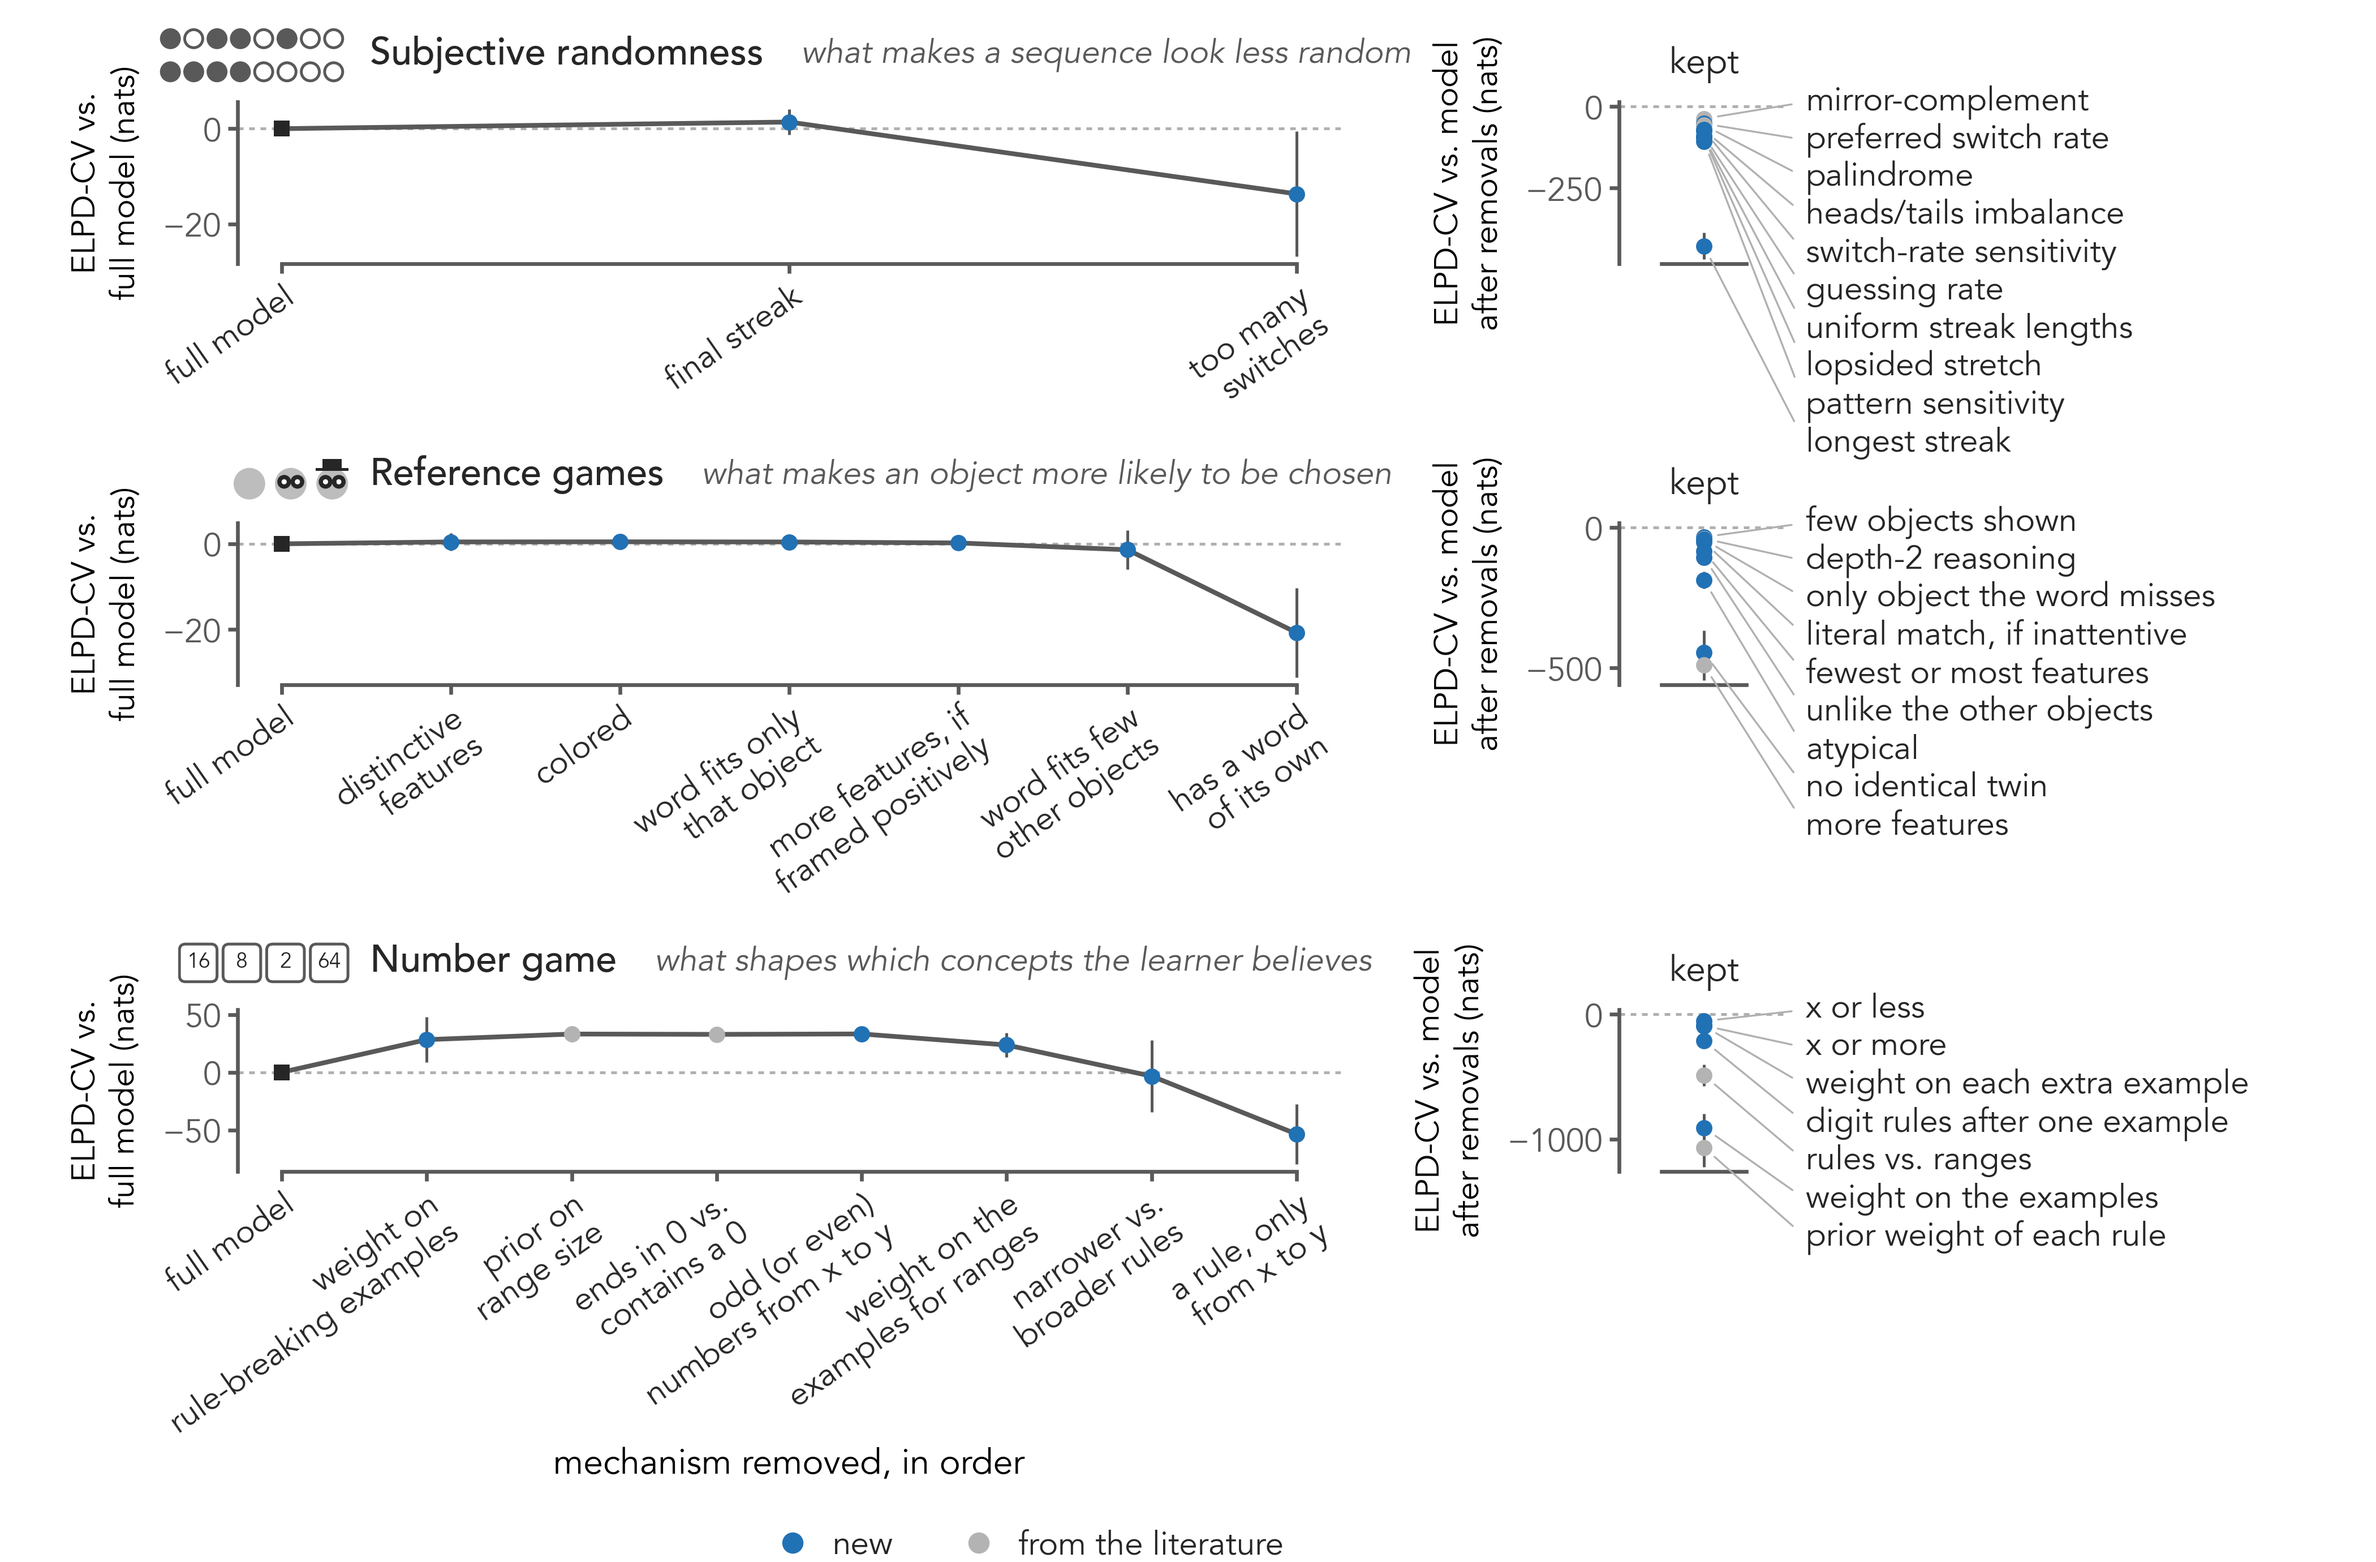
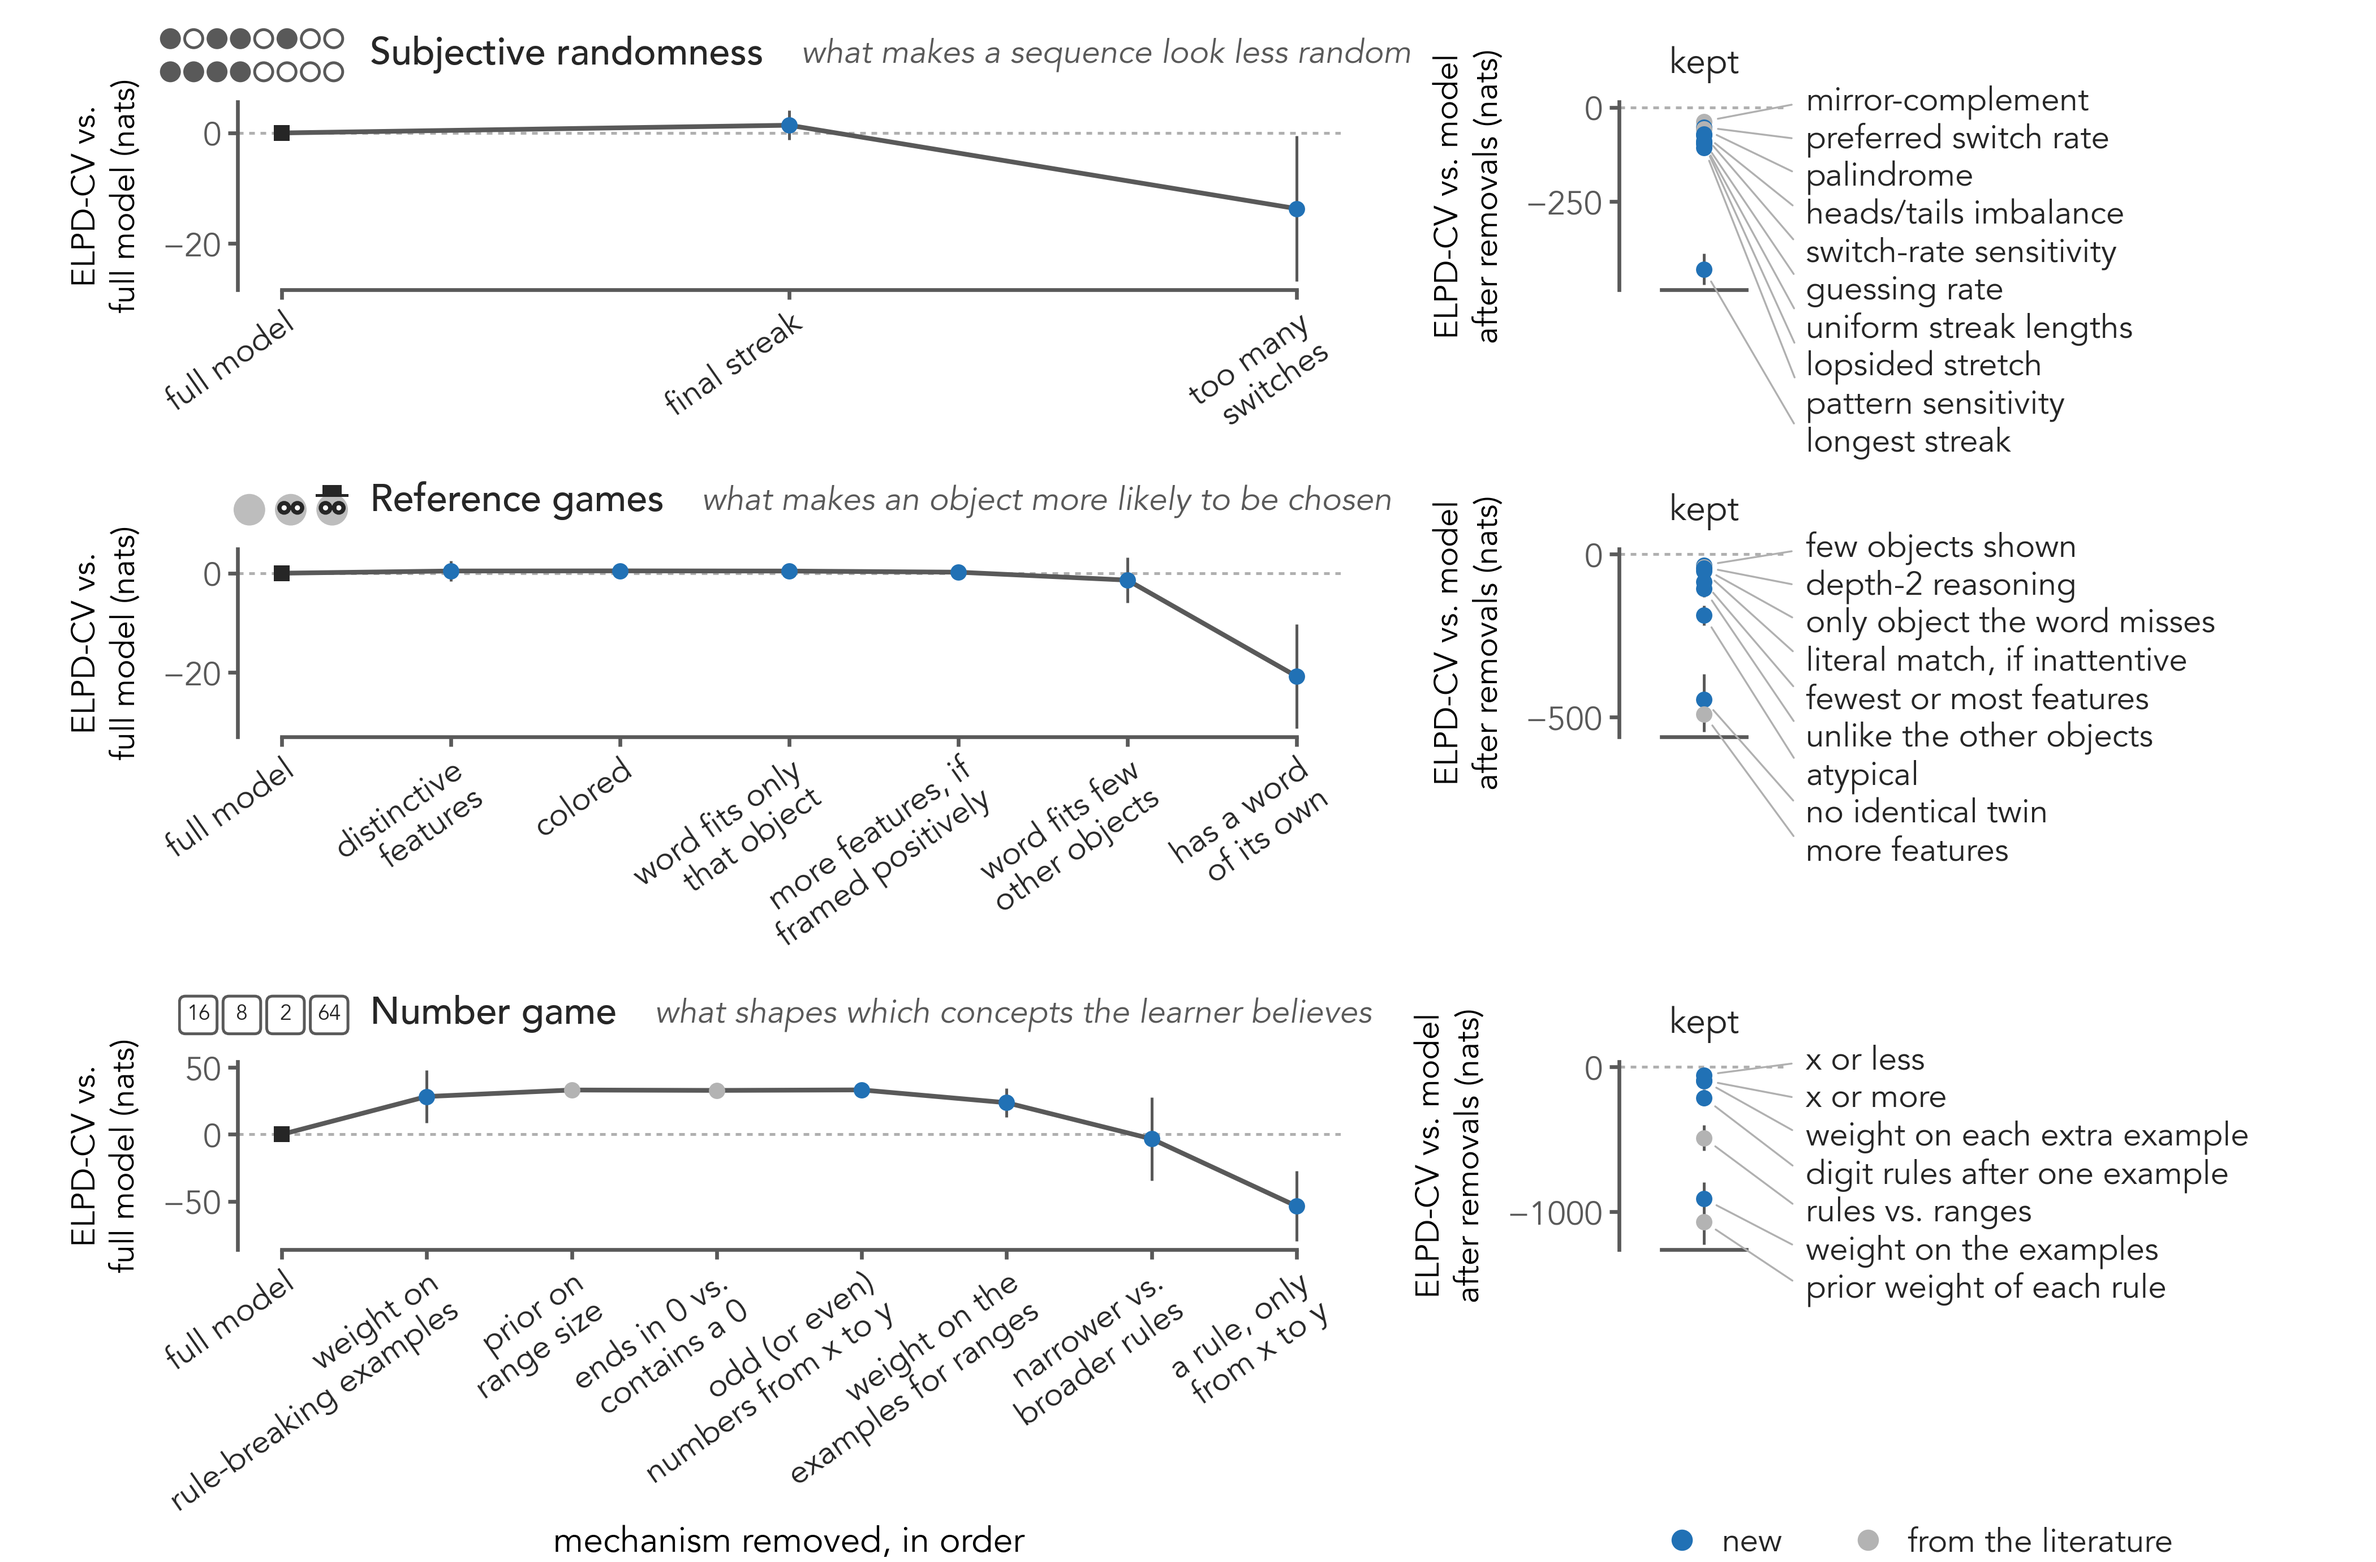
Figure 4: the key on the x label's line under the kept column; the rows take the freed height

diff --git a/scripts/paper/figures/fig4.py b/scripts/paper/figures/fig4.py
@@ -32,7 +32,7 @@ NAME_PT, SMALL = 7.0, 7.0
 NAMES_IN, NAME_PITCH = 0.3, 1.15  # the kept names' offset from their column (inches), their spacing (line heights)
 LEFT, RIGHT, TICK_DEG = 0.04, 0.04, 35  # shares of the path's axis before the first step and past the last; the step names' angle  # PNAS: no text under 6 pt at the printed size
 PATH_IN, KEPT_IN, GAP_IN = 3.25, 0.5, 0.82  # widths: the path's axes, the kept column's, between them (inches)
-LEFT_PAD, TOP_PAD, LEGEND_PAD, ROW_GAP = 0.1, 0.01, 0.05, 0.06  # figure shares (left, top, the legend's), inches between rows
+LEFT_PAD, TOP_PAD, LEGEND_PAD, ROW_GAP = 0.1, 0.01, 0.0, 0.06  # figure shares (left, top, the legend's), inches between rows
 ICON_OVER, ONE_LINE = 0.5, 14  # how far each title's icon reaches over it (title heights); the longest one-line step name
 WIDTH_IN, HEIGHT_IN = 7.0, 4.6  # one row per domain; the saved figure: PNAS's full width
 # each panel's cues are named by what pushes its response this way (the fitted signs: mechanisms.yaml)
@@ -217,8 +217,11 @@ def draw_ablation(figure_data: Path, mechanisms: Path, out_dir: Path) -> None:
     dot = {"lw": 0, "ms": 3.5}
     key = [Line2D([], [], marker="o", color=COLOR_NEW, label="new", **dot),
            Line2D([], [], marker="o", color=COLOR_START, label="from the literature", **dot)]
-    fig.legend(handles=key, loc="upper center", ncol=2, frameon=False, fontsize=SMALL, bbox_to_anchor=(0.43, 0.04),
-               handletextpad=0.2, columnspacing=1.6)
+    fig.canvas.draw()  # the key on the x label's line, under the kept column: no line of its own
+    label = axes[-1].xaxis.label.get_window_extent()
+    y = fig.transFigure.inverted().transform((0, (label.y0 + label.y1) / 2))[1]
+    fig.legend(handles=key, loc="center left", ncol=2, frameon=False, fontsize=SMALL,
+               bbox_to_anchor=(grid[-1, 1].get_position().x0, y), handletextpad=0.2, columnspacing=1.6)
     add_title_icons(fig, axes, list(TITLES))
     out_dir.mkdir(parents=True, exist_ok=True)
     for ext in ("pdf", "png"):  # uncropped: the canvas is the saved size, PNAS's full width
